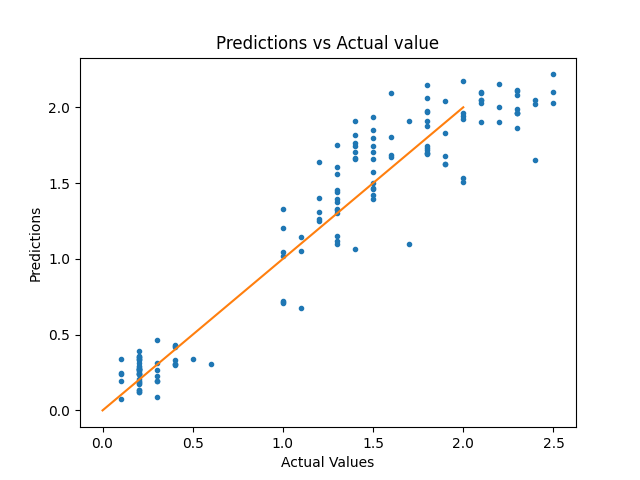
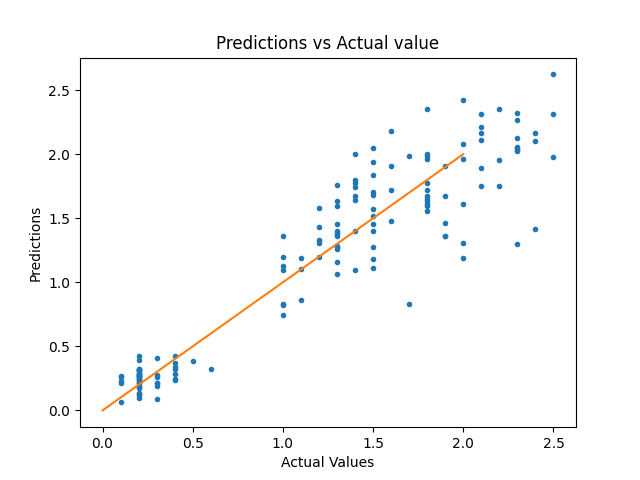
sdfj

diff --git a/07_linear_models/Steinarr7.py b/07_linear_models/Steinarr7.py
@@ -47,7 +47,7 @@ def mvn_basis(
 if __name__ == "__main__":
     X, t = load_regression_iris()
     N, D = X.shape
-    M, sigma = 1000, 7.9
+    M, sigma = 100, 2
     mu = np.zeros((M, D))
     for i in range(D):
         mmin = np.min(X[:, i])
